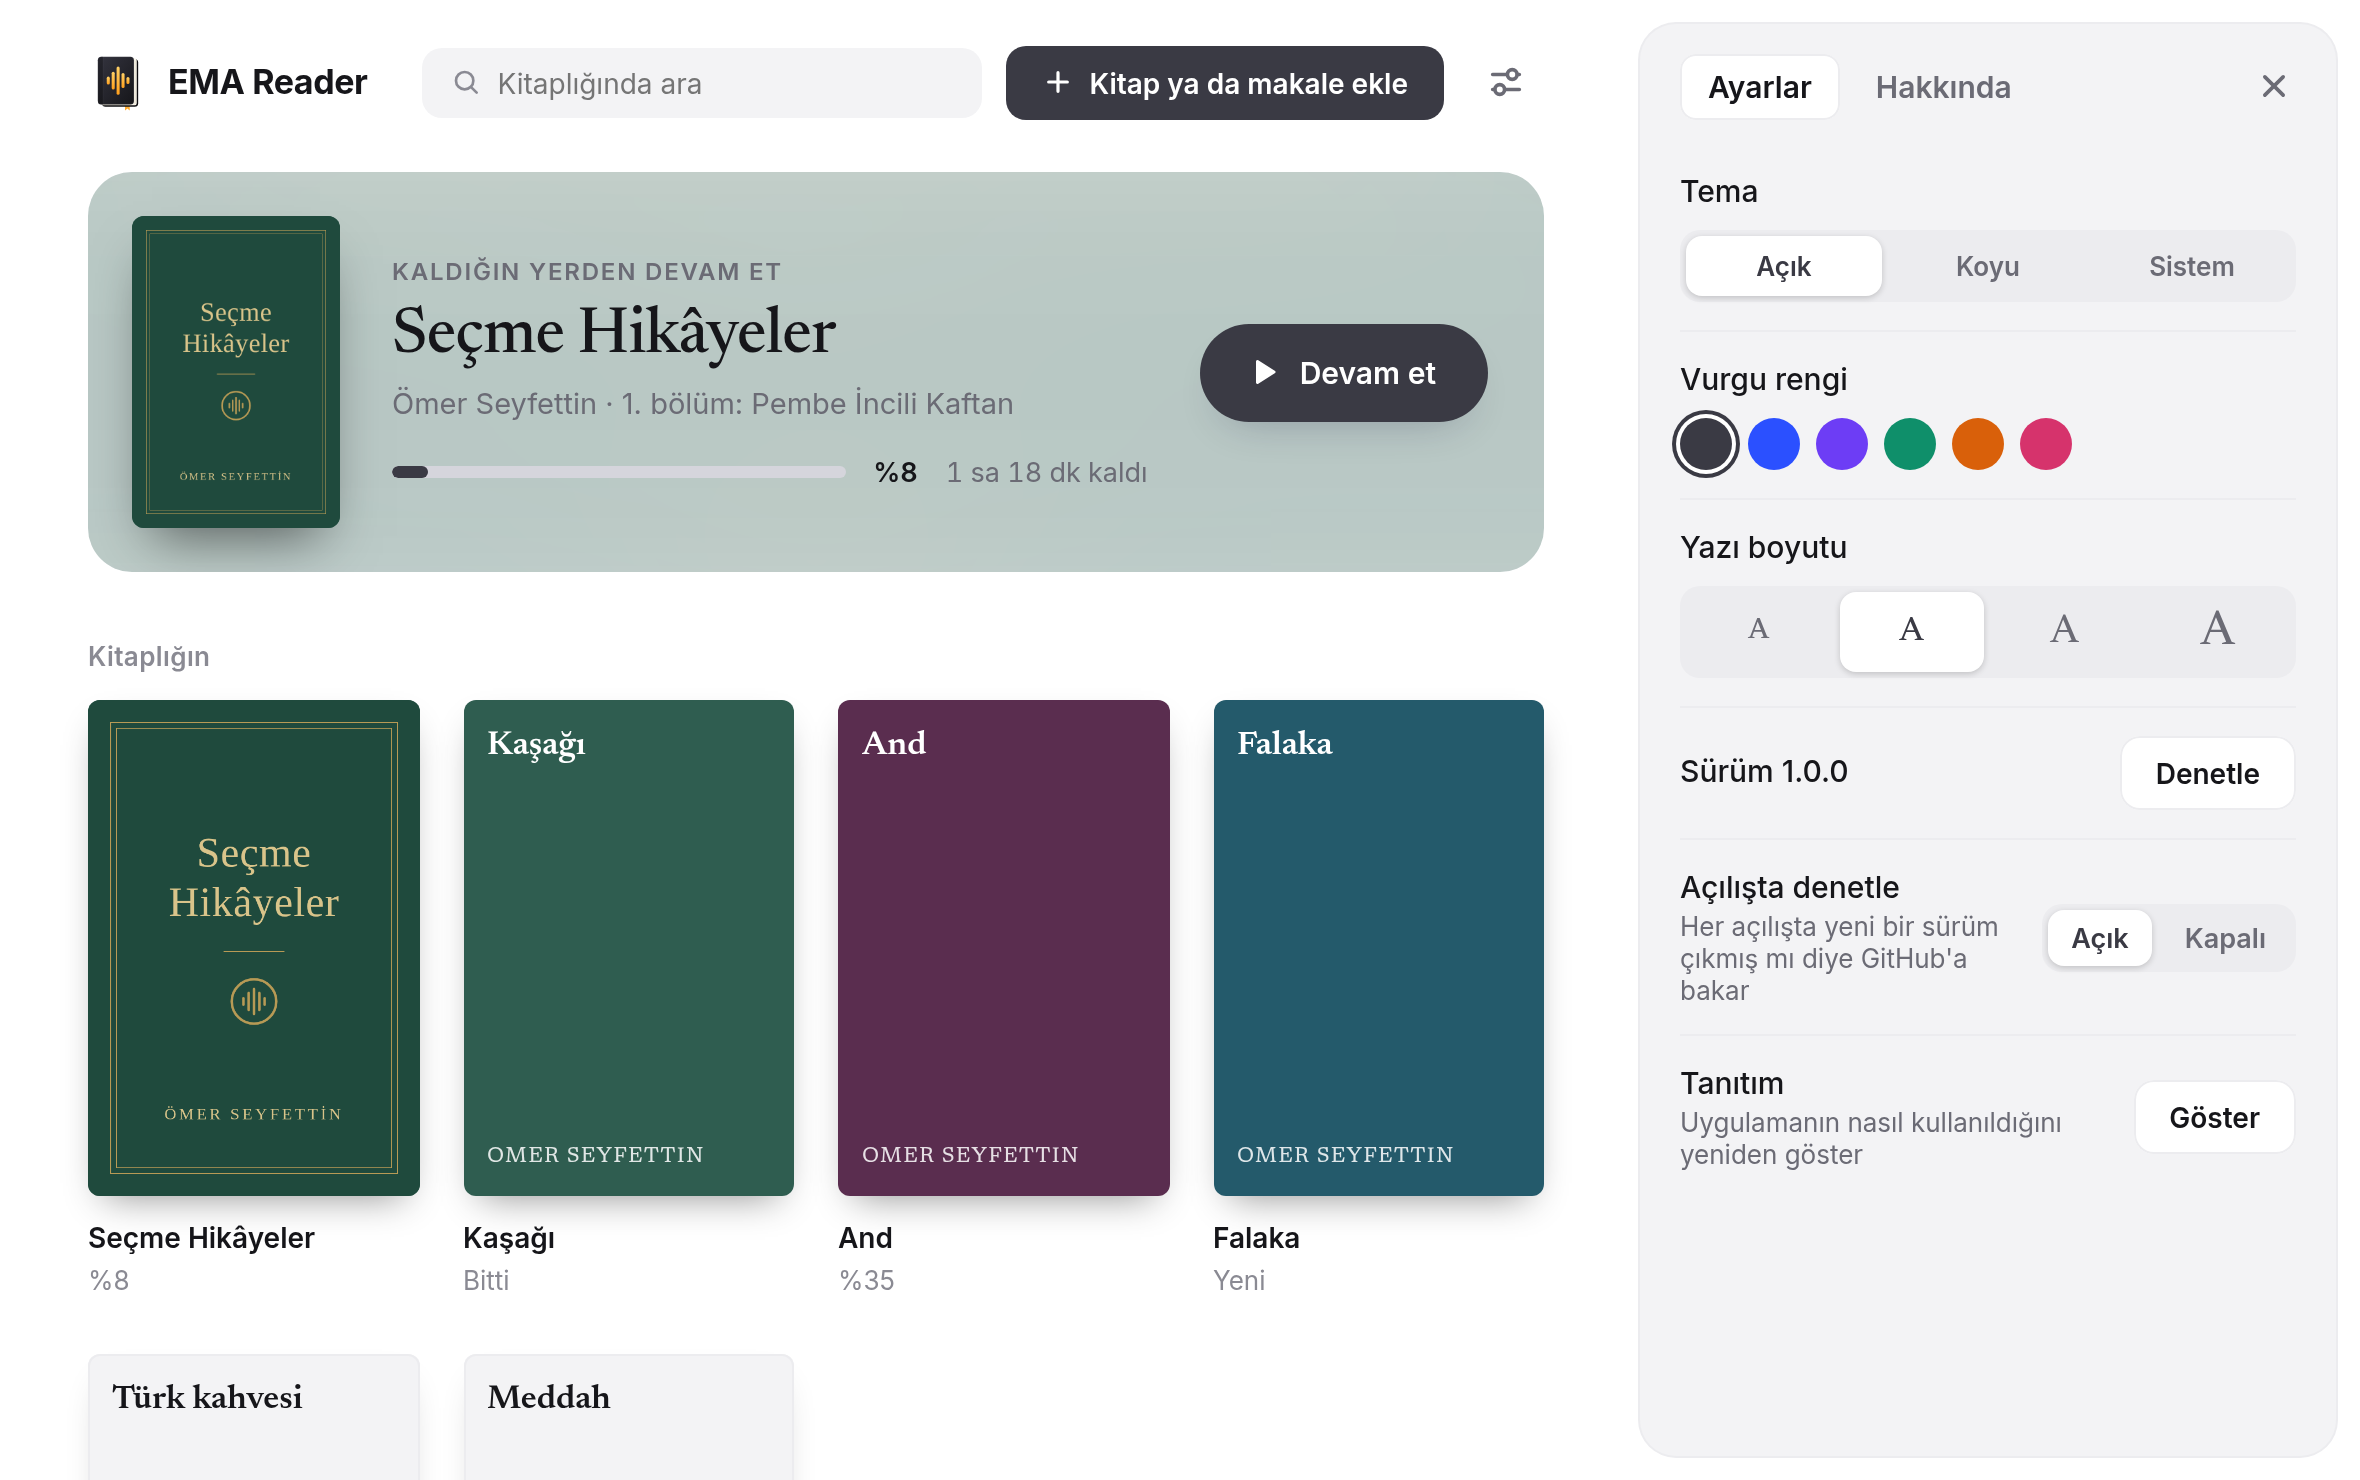
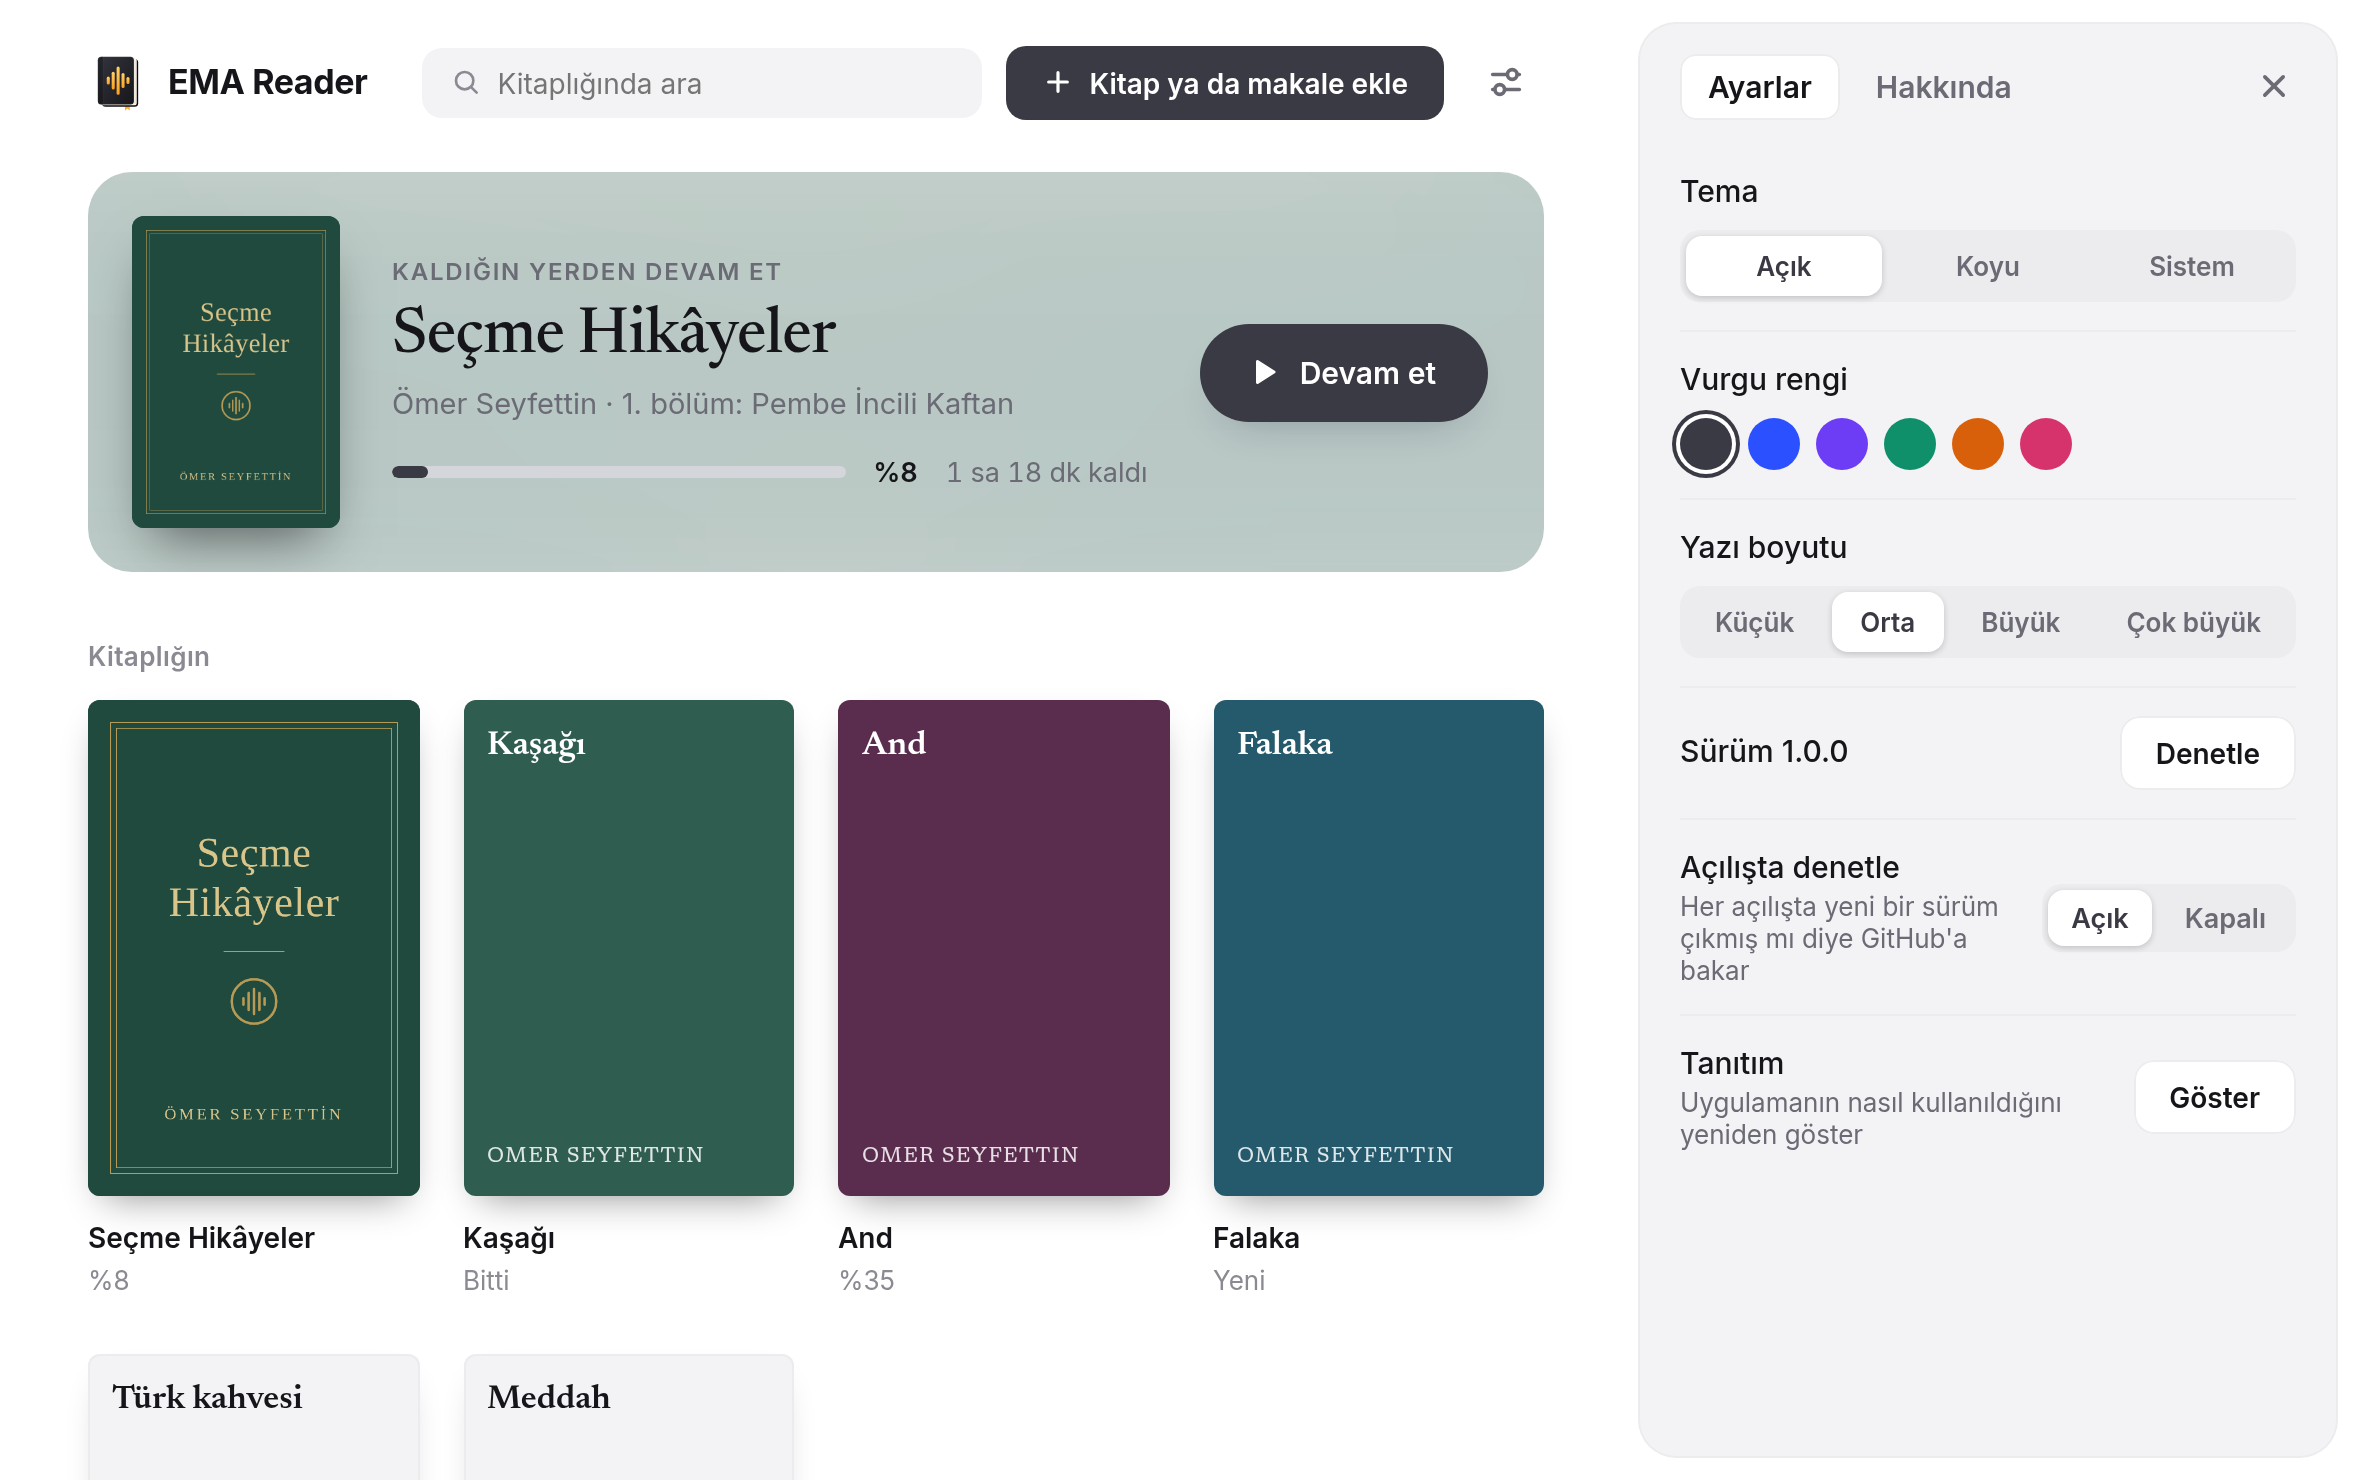
Bring back the named text sizes, in one row that fits "Çok büyük"

diff --git a/static/index.html b/static/index.html
@@ -229,7 +229,9 @@
   .panel .field.tall { flex-direction: column; align-items: stretch; gap: 10px; }
   .panel .field.tall .choice { display: grid; grid-auto-flow: column; grid-auto-columns: 1fr; }
   .panel .field.tall .choice button { padding: 7px 2px; font-size: 13px; white-space: nowrap; }
-  .panel #set-size button { height: 40px; padding: 0; font-family: var(--serif); font-weight: 500; line-height: 1; }   /* four letters, each at its own size */
+  /* four sizes in one row: each as wide as its word needs, so that "Çok büyük" is not cut short */
+  .panel .field.tall #set-size { display: flex; flex-wrap: nowrap; }
+  .panel .field.tall #set-size button { flex: 1 1 auto; padding: 7px 6px; }
   .panel .tabs button.on { background: var(--surface); box-shadow: inset 0 0 0 1px var(--line); }
   .panel .about dl div { flex-direction: column; gap: 2px; }
   .panel .about dt { width: auto; font-size: 13px; }
@@ -1127,11 +1129,7 @@ $("download-dialog").addEventListener("close", () => {
 
 function drawSettings() {
   pick("set-theme", ["light", "dark", "system"], settings.theme, v => t(v), v => { settings.theme = v; saveSettings(); drawSettings(); });
-  pick("set-size", Object.keys(SIZES), settings.size, () => "A", v => { settings.size = v; saveSettings(); drawSettings(); });
-  [...$("set-size").children].forEach((b, i) => {   // the letter shows the size; its name is there for a pointer and a screen reader
-    const name = Object.keys(SIZES)[i];
-    b.style.fontSize = `${SIZES[name] - 5}px`; b.title = t("sizes")[name]; b.setAttribute("aria-label", b.title);
-  });
+  pick("set-size", Object.keys(SIZES), settings.size, v => t("sizes")[v], v => { settings.size = v; saveSettings(); drawSettings(); });
   pick("set-updates", [true, false], settings.updates, v => t(v ? "on" : "off"), v => { settings.updates = v; saveSettings(); drawSettings(); checkUpdate(); });
   const dark = document.documentElement.dataset.theme === "dark";
   $("set-accent").replaceChildren(...Object.entries(ACCENTS).map(([name, colours]) => {
